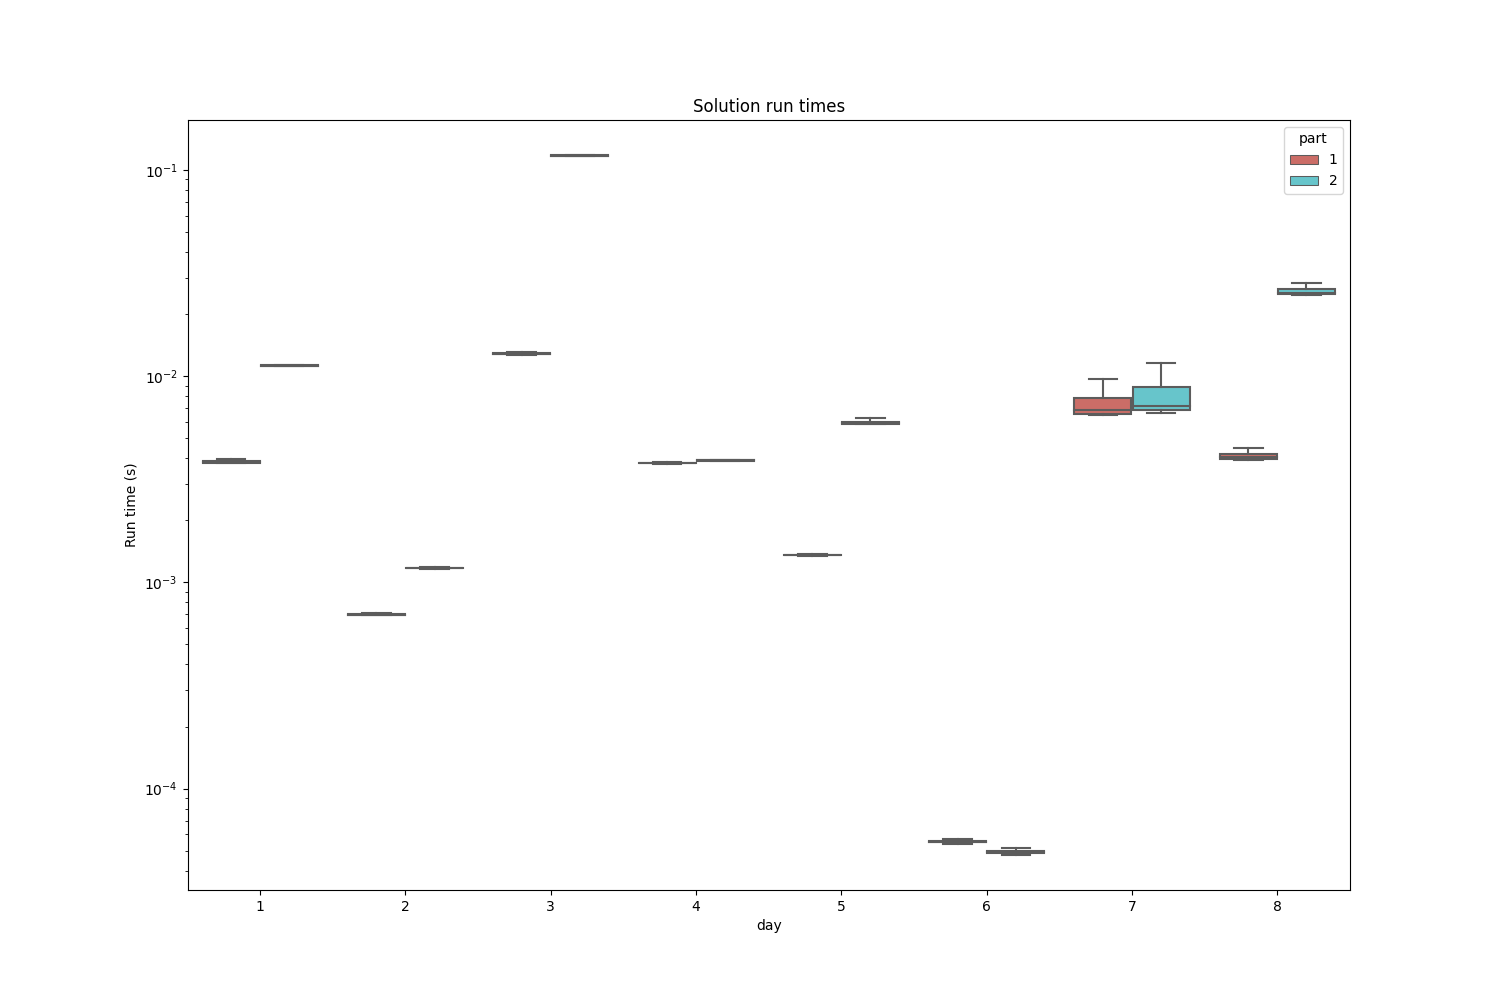
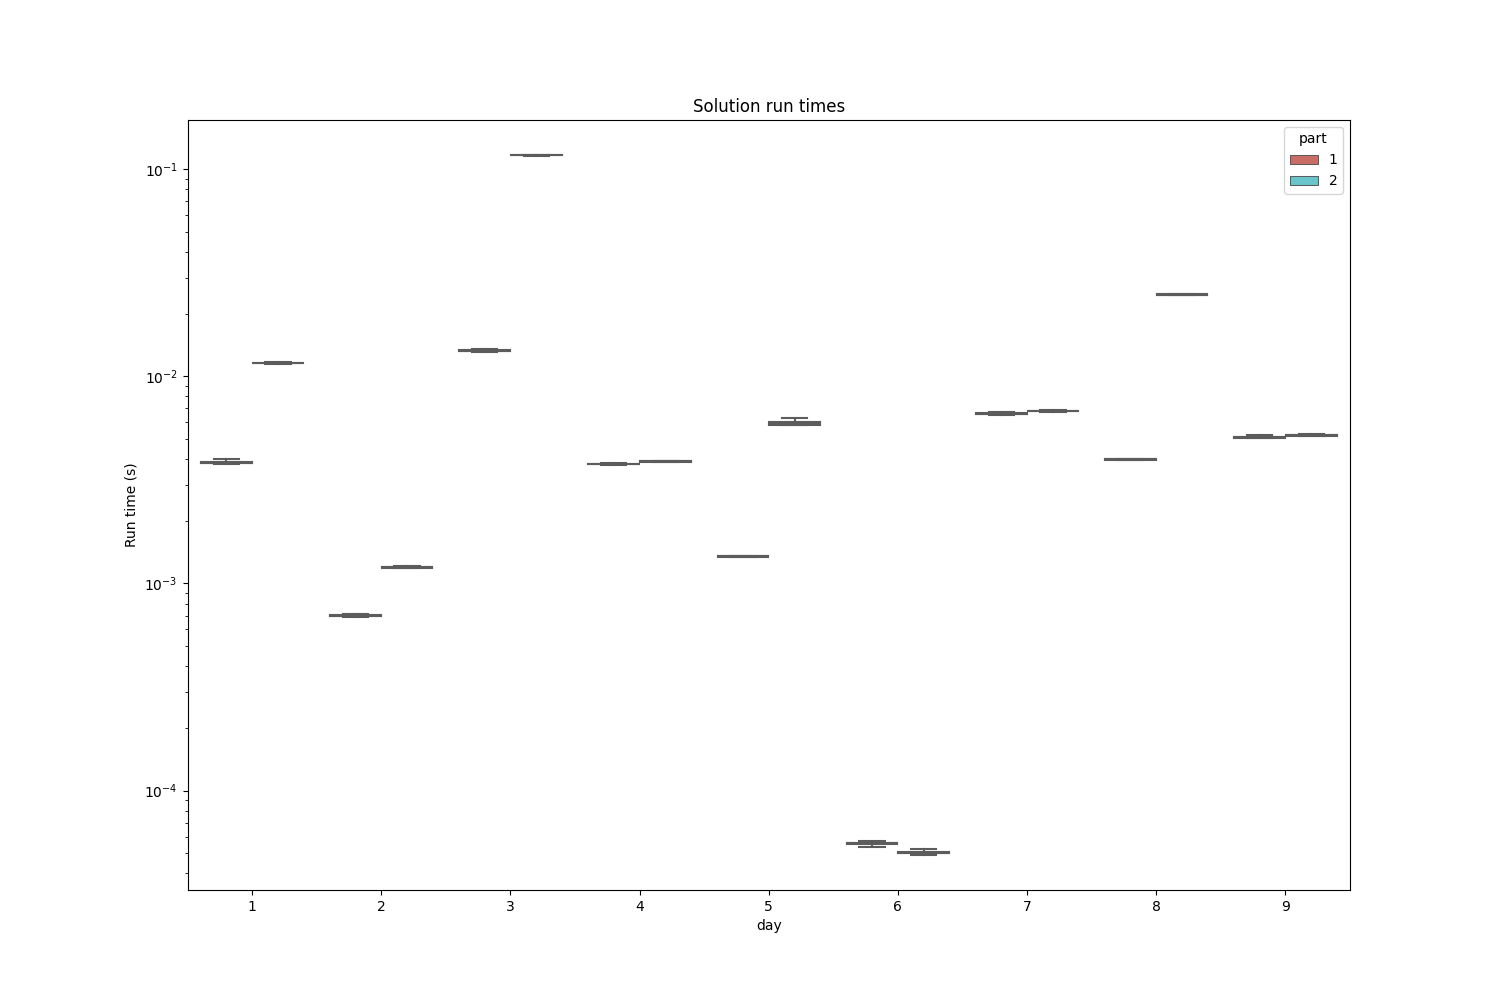
day 9

diff --git a/aoc/day_09.py b/aoc/day_09.py
@@ -1,0 +1,57 @@
+import numpy as np
+
+
+def predict_next(line: str, reverse=False):
+
+    y = list(map(int, line.strip().split(" ")))
+    if reverse:
+        y = y[::-1]
+    final_element = get_difference(y)
+    return final_element
+
+
+def get_difference(y):
+
+    y_diff = [b - a for a, b in zip(y[:-1], y[1:])]
+    if sum(y_diff) == 0:
+        return y[-1]
+    else:
+        return y[-1] + get_difference(y_diff)
+
+
+def part_one(file_path: str):
+    """[summary]
+
+    Args:
+        file_path (str): [description]
+
+    Returns:
+        [type]: [description]
+    """
+
+    # read file
+    with open(file_path) as f:
+        lines = f.readlines()
+
+    return sum(map(predict_next, lines))
+
+
+def part_two(file_path: str):
+    """[summary]
+
+    Args:
+        file_path (str): [description]
+
+    Returns:
+        [type]: [description]
+    """
+
+    with open(file_path) as f:
+        lines = f.readlines()
+
+    return sum(map(lambda x: predict_next(x, reverse=True), lines))
+
+
+if __name__ == "__main__":
+    print(part_one("aoc/inputs/day_09.txt"))
+    print(part_two("aoc/inputs/day_09.txt"))

diff --git a/tests/test_day_09.py b/tests/test_day_09.py
@@ -1,0 +1,15 @@
+from aoc.day_09 import part_one, part_two
+
+
+def test_part_one():
+
+    test_file_path = "tests/test_inputs/test_day_09.txt"
+
+    assert part_one(test_file_path) == 114
+
+
+def test_part_two():
+
+    test_file_path = "tests/test_inputs/test_day_09.txt"
+
+    assert part_two(test_file_path) == 2
